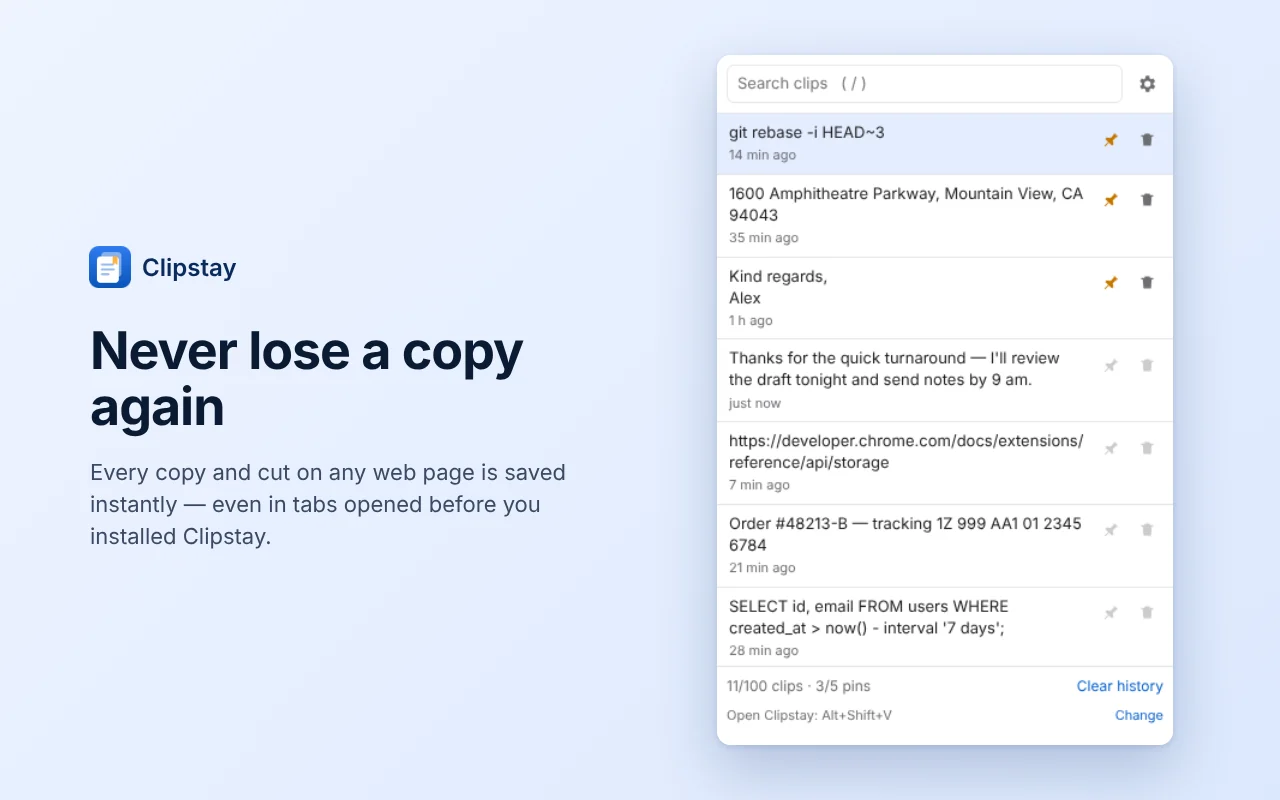
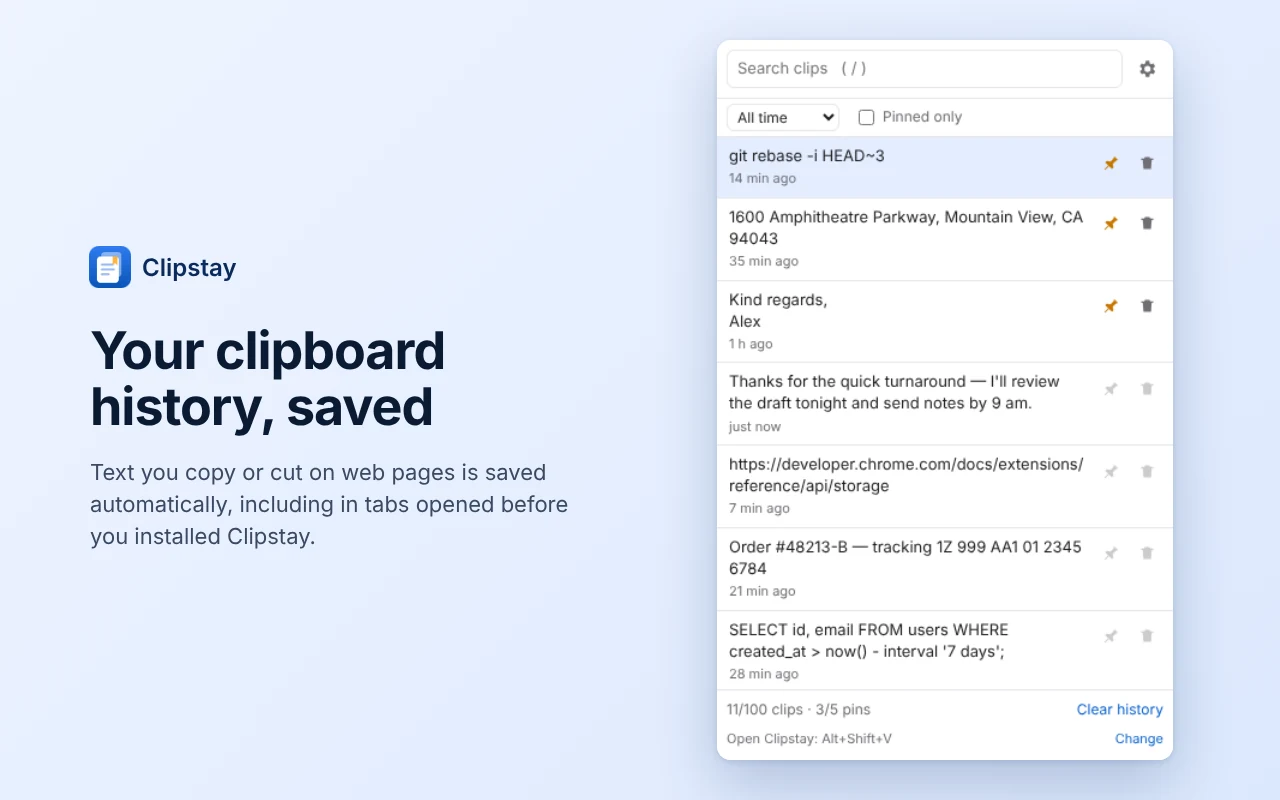
Clipstay page: 1.1 screenshots (captions match the privacy wording) and a Pro frame
Claude-Session: https://claude.ai/code/session_018GNftAUfD4sbb2kayr8RNQ

diff --git a/content/clipstay.md b/content/clipstay.md
@@ -23,7 +23,7 @@ storeURL: "https://chromewebstore.google.com/detail/biellalamlbfmgljmpfppaebblmm
 privacyURL: "/clipstay/privacy/"
 icon: "/img/clipstay/icon-128.png"
 cardImage: "/img/clipstay/history.webp"
-cardImageAlt: "The Clipstay popup showing a searchable list of recent clips, with three pinned."
+cardImageAlt: "The Clipstay popup showing a list of recent clips, with three pinned. Caption: Your clipboard history, saved."
 ogImage: "og/og-clipstay.png"
 ogImageAlt: "Clipstay: never lose a copy again. A Chrome extension for clipboard history."
 shortcuts:
@@ -35,11 +35,15 @@ highlights:
   - title: "Find it again in seconds"
     text: "Search your history, pin the clips you reuse and copy any of them back with one click. Open Clipstay from the keyboard with the shortcut below."
     image: "/img/clipstay/search.webp"
-    alt: "The Clipstay popup filtered by the word git, showing three matching clips."
+    alt: "The Clipstay popup filtered by the word git, showing three matching clips. Caption: search by several words in any order, filter by date or pinned clips."
   - title: "You decide what it keeps"
     text: "Exclude any site, pause capture whenever you like, and export your whole history to JSON or CSV. Password fields and Incognito windows are never captured."
     image: "/img/clipstay/private.webp"
-    alt: "The Clipstay settings page with a pause switch, an excluded sites list and the option to add the clipboard when the popup opens."
+    alt: "The Clipstay settings page with a pause switch, an excluded sites list and the option to add the clipboard when the popup opens. Caption: Stays on your device."
+  - title: "Free, with an optional Pro"
+    text: "Pro removes the history and pin limits. $4.99, paid once, no subscription. Unlock it by entering your purchase email once. Search and export stay free."
+    image: "/img/clipstay/pro.webp"
+    alt: "The Plan section of Clipstay settings: free limits, Pro with unlimited history and pins for $4.99 one-time, a Buy Pro button and a field to activate with your purchase email."
 features:
   - "Saves copy and cut on every web page"
   - "Works in tabs opened before you installed"
